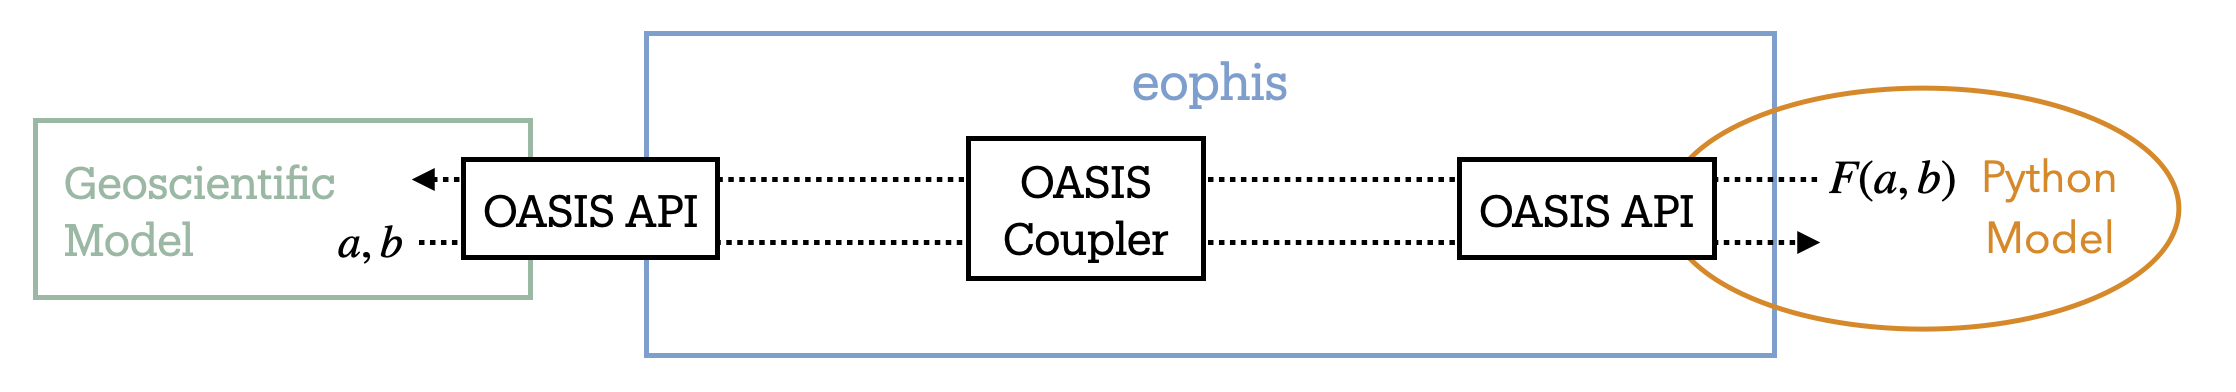
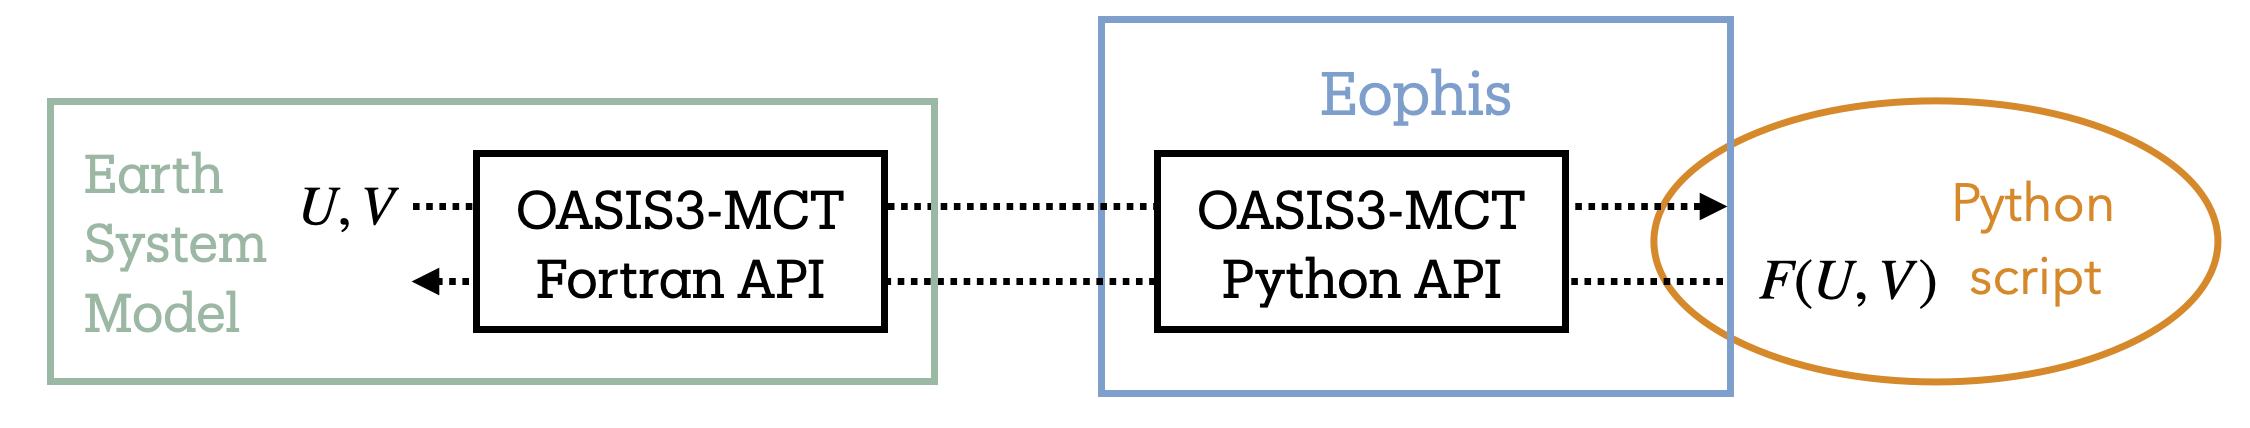
add reference to paper, remove performance section

Changed region(s): [[0.0, 0.0306, 0.9875, 0.949]]

diff --git a/docs/source/overview.rst b/docs/source/overview.rst
@@ -7,7 +7,7 @@ Morays
 
 -------------------------------
 
-`OASIS3-MCT`_ is a parallelized Fortran coupling library that performs field exchanges between coupled executables. Eophis is a Python library that facilitates the creation and the configuration of an OASIS3-MCT environment in a Python script to couple with Fortran/C geoscientific codes. It can be deployed with any geoscientific model if it does possess an OASIS3-MCT interface.
+`OASIS3-MCT`_ is a parallelized coupling library that performs field exchanges between coupled Earth System Model components. Eophis is a Python library that facilitates the creation and the configuration of an OASIS3-MCT environment in a Python script to couple with Fortran ESM. It can be deployed with any ESM that does possess an OASIS3-MCT interface.
 
 In this context, a Morays experiment is an ocean simulation in which the physical model sends fields towards an external Python script deployed by Eophis. The results computed by the Python model are sent back to the ocean and retroactively used for the solution.
 
@@ -47,6 +47,8 @@ Every Morays experiments are documented in a self contained separate GitHub repo
     Advanced users can find advanced tools and informations in corresponding model sections:
         - `NEMO-Eophis <https://morays-doc.readthedocs.io/en/latest/nemo.html>`_
         - `CROCO-Eophis <https://morays-doc.readthedocs.io/en/latest/croco.html>`_
+    For a detailed description of the Eophis computational performance and comparisons with alternative approaches, see:
+        - `Barge et al. (2026) – Deploying machine learning components coupled to Earth System Models with OASIS3-MCT (v6) and Eophis (v1.1) <https://doi.org/10.5194/gmd-19-10345-2026>`_
 
     People who wish to contribute to the Morays collection with their own experiments are invited to follow:
         - `Contribution guidelines <https://morays-doc.readthedocs.io/en/latest/contribute.html>`_

diff --git a/docs/source/croco.rst b/docs/source/croco.rst
@@ -9,4 +9,3 @@ Deploy a Python model within CROCO
     CROCO for Morays <croco.api>
     Tutorial: Create a CROCO experiment <croco.tuto>
     Advanced CROCO-Eophis coupling <croco.tools>
-    Performances <croco.perf>
